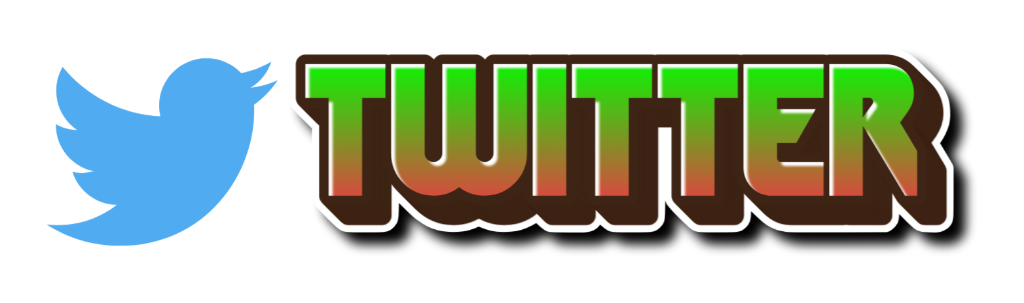
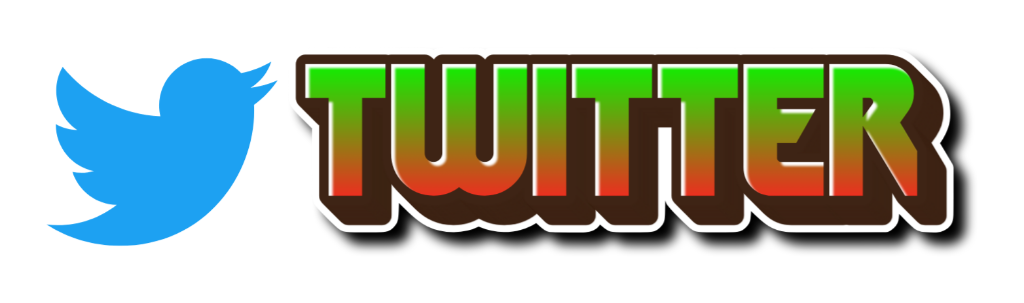
Added BlueSky link and made the colors for images uniform

diff --git a/index.html b/index.html
@@ -40,19 +40,23 @@
             <ul>
                 <li><a href="https://x.com/DarukaEon" class="transition-link"
                         data-transition="Media/Images/GreenZoomBack1.gif" style="color: white;"><img
-                            src="Media/Images/Twitter.png" alt="Twitch" width="75%"></a>
+                            src="Media/Images/Twitter.png" alt="Twitter" width="60%"></a>
                 </li>
                 <li><a href="https://www.twitch.tv/darukaeon" class="transition-link"
                         data-transition="Media/Images/GreenZoomBack1.gif" style="color: white;"><img
-                            src="Media/Images/Twitch.png" alt="Twitch" width="75%"></a>
+                            src="Media/Images/Twitch.png" alt="Twitch" width="60%"></a>
                 </li>
                 <li><a href="https://www.youtube.com/@DarukaEon" class="transition-link"
                         data-transition="Media/Images/GreenZoomBack1.gif" style="color: white;"><img
-                            src="Media/Images/YouTube.png" alt="Twitch" width="75%"></a>
+                            src="Media/Images/YouTube.png" alt="YouTube" width="60%"></a>
                 </li>
                 <li><a href="https://www.tiktok.com/@darukaeon" class="transition-link"
                         data-transition="Media/Images/GreenZoomBack1.gif" style="color: white;"><img
-                            src="Media/Images/TikTok.png" alt="Twitch" width="75%"></a>
+                            src="Media/Images/TikTok.png" alt="TikTok" width="60%"></a>
+                </li>
+                <li><a href="https://bsky.app/profile/darukaeon.bsky.social" class="transition-link"
+                        data-transition="Media/Images/GreenZoomBack1.gif" style="color: white;"><img
+                            src="Media/Images/BlueSky.png" alt="BlueSky" width="60%"></a>
                 </li>
             </ul>
         </nav>
